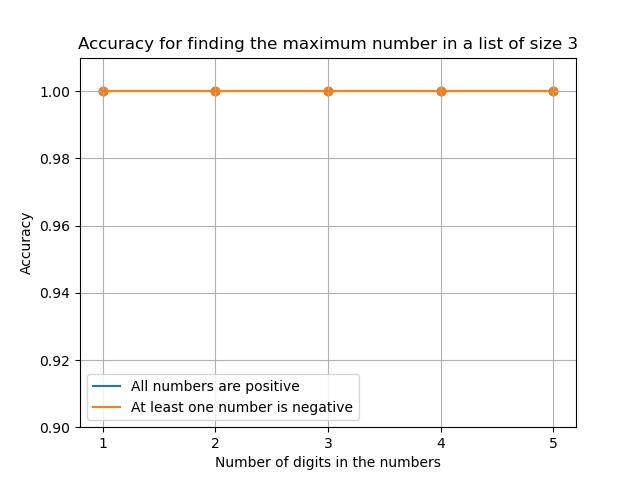
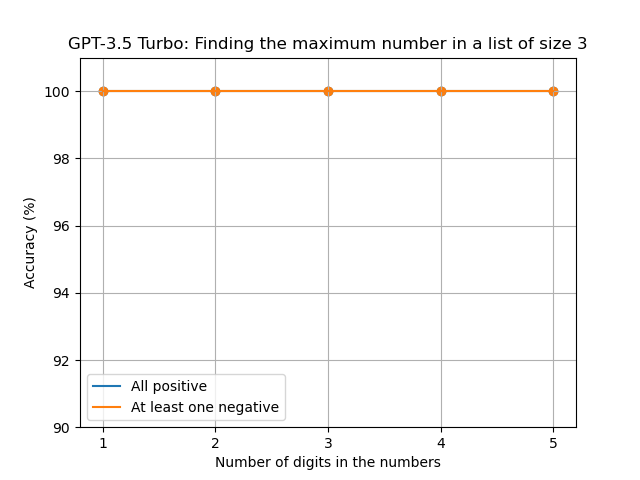
modify plots

diff --git a/code/eval_gpt/plots.py b/code/eval_gpt/plots.py
@@ -109,8 +109,9 @@ def plot_for_int_addition(responses_path):
     correct[strike_off] = 0
     total[strike_off] = 1
 
-    accuracy = correct/total
+    accuracy = correct*100/total
 
+    """
     for i in range(3):
 
         plt.figure(figsize=(60, 14 if i==2 else 5))
@@ -126,7 +127,56 @@ def plot_for_int_addition(responses_path):
             if mask[0][j]:
                 plt.text(j + 0.5, 0.6, 'X', ha='center', va='center', color='black', fontsize=58)
                 
-        plt.savefig("./int_addition_plots/" + ["both_positive", "one_negative", "both_negative"][i] + ".png")
+        plt.savefig("./int_addition_plots/" + ["both_positive", "one_negative", "both_negative"][i] + ".png")"""
+    
+    #make a simple plot, include all the three cases. Only include those data points where total >= 40.
+    plt.figure()
+    #both_positive_x_vals is a list of x values where total >= 40 for the case when both numbers are positive
+    both_positive_x_vals = np.where(total[0] >= 40)[0] + 1
+    both_positive_y_vals = accuracy[0][total[0] >= 40]
+    #plt.plot(both_positive_x_vals, both_positive_y_vals, label="Both positive", color="green")
+    #plt.scatter(both_positive_x_vals, both_positive_y_vals, color="green")
+
+    #one_negative_x_vals is a list of x values where total >= 40 for the case when one number is negative
+    one_negative_x_vals = np.where(total[1] >= 40)[0] + 1
+    one_negative_y_vals = accuracy[1][total[1] >= 40]
+    #plt.plot(one_negative_x_vals, one_negative_y_vals, label="One positive, one negative", color="blue")
+    #plt.scatter(one_negative_x_vals, one_negative_y_vals, color="blue")
+
+    #both_negative_x_vals is a list of x values where total >= 40 for the case when both numbers are negative
+    both_negative_x_vals = np.where(total[2] >= 40)[0] + 1
+    both_negative_y_vals = accuracy[2][total[2] >= 40]
+    #plt.plot(both_negative_x_vals, both_negative_y_vals, label="Both negative", color="red")
+    #plt.scatter(both_negative_x_vals, both_negative_y_vals, color="red")
+
+    def moving_average(a, n=2):
+        ret = np.cumsum(a, dtype=float)
+        ret[n:] = ret[n:] - ret[:-n]
+        return ret[n - 1:] / n
+
+    # Apply moving average to y values
+    both_positive_y_vals_smooth = moving_average(both_positive_y_vals)
+    one_negative_y_vals_smooth = moving_average(one_negative_y_vals)
+    both_negative_y_vals_smooth = moving_average(both_negative_y_vals)
+
+    # Adjust x values to match the length of the smoothed y values
+    both_positive_x_vals = both_positive_x_vals[:len(both_positive_y_vals_smooth)]
+    one_negative_x_vals = one_negative_x_vals[:len(one_negative_y_vals_smooth)]
+    both_negative_x_vals = both_negative_x_vals[:len(both_negative_y_vals_smooth)]
+
+    plt.plot(both_positive_x_vals, both_positive_y_vals_smooth, label="Both positive", color="green")
+    plt.plot(one_negative_x_vals, one_negative_y_vals_smooth, label="One positive, one negative", color="blue")
+    plt.plot(both_negative_x_vals, both_negative_y_vals_smooth, label="Both negative", color="red")
+
+    plt.xticks(np.arange(0, 61, 5))
+    plt.yticks(np.arange(0, 101, 20))
+    plt.title("GPT-3.5 Turbo: Accuracy for integer addition")
+    plt.grid()
+
+    plt.xlabel('Number of digits')
+    plt.ylabel('Accuracy (%)')
+    plt.legend()
+    plt.savefig("./int_addition_plots/accuracy_vs_digits.png")
 
 
 def plot_for_list_min(responses_path):
@@ -195,9 +245,9 @@ def plot_for_list_min(responses_path):
             total_size10[is_neg, n_digits-1] += 1
         
 
-    accuracies_size3 = correct_size3/total_size3
-    accuracies_size5 = correct_size5/total_size5
-    accuracies_size10 = correct_size10/total_size10
+    accuracies_size3 = correct_size3*100/total_size3
+    accuracies_size5 = correct_size5*100/total_size5
+    accuracies_size10 = correct_size10*100/total_size10
 
     #plot how the accuracy varies with the number of digits in the numbers. draw two curves, one for when all the numbers are positive, and one for when at least one number is negative. Show the points through scatter plot.
     #separate plots for each list size.
@@ -212,12 +262,12 @@ def plot_for_list_min(responses_path):
         plt.scatter(x_range, accuracies[1])
 
         plt.xlabel("Number of digits in the numbers")
-        plt.ylabel("Accuracy")
+        plt.ylabel("Accuracy (%)")
 
-        plt.ylim(0.9, 1.01)
+        plt.ylim(90, 101)
         plt.xticks(x_range)
-        plt.yticks(np.arange(0.9, 1.01, 0.02))
-        plt.title("Accuracy for finding the minimum number in a list of size " + str(size))
+        plt.yticks(np.arange(90, 101, 2))
+        plt.title("GPT-3.5 Turbo: Finding the minimum number in a list of size " + str(size))
         plt.legend()
         plt.grid()
         plt.savefig("./list_min_plots/size" + str(size) + ".png")
@@ -288,9 +338,9 @@ def plot_for_list_max(responses_path):
                 total_size10[is_neg, n_digits-1] += 1                                  
                 
         
-        accuracies_size3 = correct_size3/total_size3
-        accuracies_size5 = correct_size5/total_size5
-        accuracies_size10 = correct_size10/total_size10
+        accuracies_size3 = correct_size3*100/total_size3
+        accuracies_size5 = correct_size5*100/total_size5
+        accuracies_size10 = correct_size10*100/total_size10
     
         #plot how the accuracy varies with the number of digits in the numbers. draw two curves, one for when all the numbers are positive, and one for when at least one number is negative. Show the points through scatter plot.
         #separate plots for each list size.
@@ -299,17 +349,17 @@ def plot_for_list_max(responses_path):
 
             plt.figure()
             x_range = np.arange(1, max_num_digits+1)
-            plt.plot(x_range, accuracies[0], label="All numbers are positive")
+            plt.plot(x_range, accuracies[0], label="All positive")
             plt.scatter(x_range, accuracies[0])
-            plt.plot(x_range, accuracies[1], label="At least one number is negative")
+            plt.plot(x_range, accuracies[1], label="At least one negative")
             plt.scatter(x_range, accuracies[1])
 
             plt.xlabel("Number of digits in the numbers")
-            plt.ylim(0.9, 1.01)
+            plt.ylim(90, 101)
             plt.xticks(x_range)
-            plt.yticks(np.arange(0.9, 1.01, 0.02))
-            plt.ylabel("Accuracy")
-            plt.title("Accuracy for finding the maximum number in a list of size " + str(size))
+            plt.yticks(np.arange(90, 101, 2))
+            plt.ylabel("Accuracy (%)")
+            plt.title("GPT-3.5 Turbo: Finding the maximum number in a list of size " + str(size))
             plt.legend()
             plt.grid()
             plt.savefig("./list_max_plots/size" + str(size) + ".png")
@@ -386,9 +436,9 @@ def plot_for_list_sort(responses_path):
             total_size_10[is_neg, n_digits-1] += 1
             
 
-    accuracies_size_3 = correct_size_3/total_size_3
-    accuracies_size_5 = correct_size_5/total_size_5
-    accuracies_size_10 = correct_size_10/total_size_10
+    accuracies_size_3 = correct_size_3*100/total_size_3
+    accuracies_size_5 = correct_size_5*100/total_size_5
+    accuracies_size_10 = correct_size_10*100/total_size_10
 
     #plot how the accuracy varies with the number of digits in the numbers. draw two curves, one for when all the numbers are positive, and one for when at least one number is negative. Show the points through scatter plot.
     #separate plots for each list size.
@@ -403,9 +453,9 @@ def plot_for_list_sort(responses_path):
         plt.scatter(x_range, accuracies[1])
 
         plt.xlabel("Number of digits in the numbers")
-        plt.ylabel("Accuracy")
+        plt.ylabel("Accuracy (%)")
         plt.xticks(x_range)
-        plt.title("Accuracy for sorting a list of size " + str(size))
+        plt.title("GPT-3.5 Turbo: Accuracy for sorting a list of size " + str(size))
         plt.legend()
         plt.grid()
         plt.savefig("./list_sort_plots/size" + str(size) + ".png")
